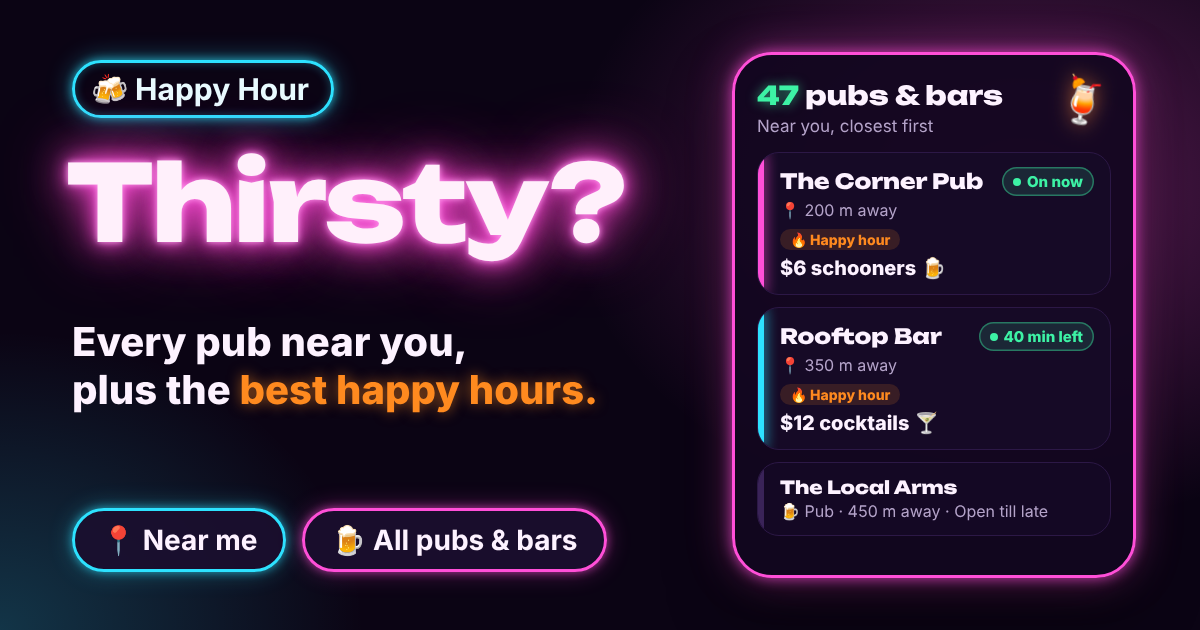
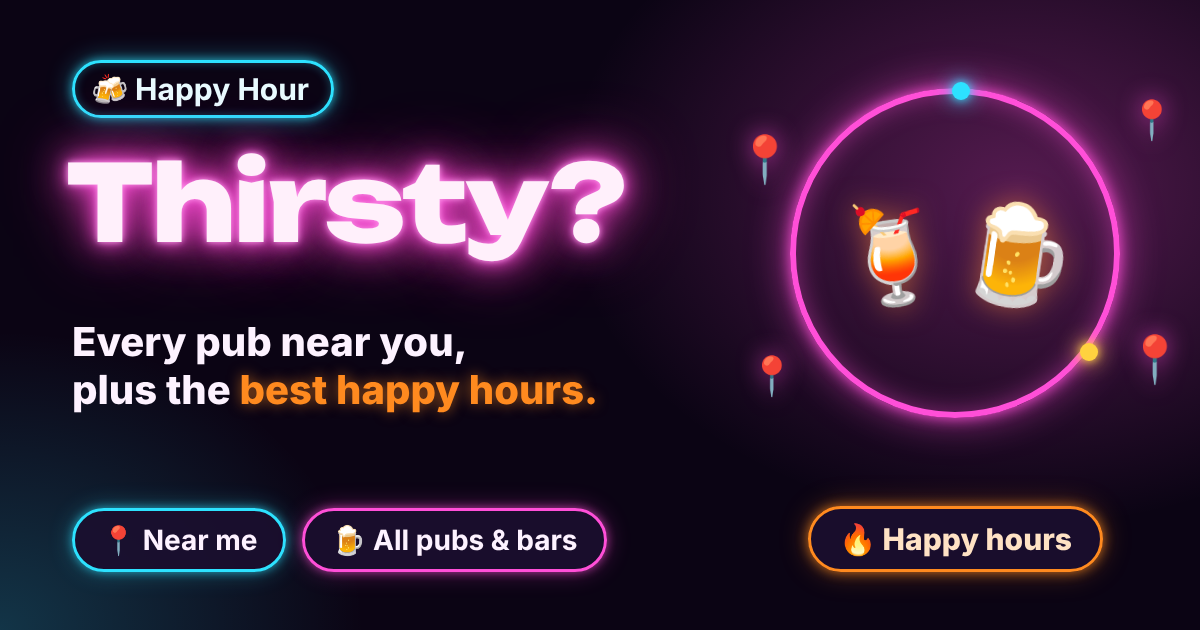
Preview picture: illustration instead of a mock pub list
The made-up pub list on the right looked like live data from wherever the
link was shared. It's now a neon drinks circle with map pins and a
"Happy hours" badge. Link bumped to ?v=5.

Claude-Session: https://claude.ai/code/session_018SdQR1HbSDNrbBQNXL9eDP

Changed region(s): [[0.5858, 0.0603, 0.9867, 0.9349]]

diff --git a/index.html b/index.html
@@ -19,11 +19,11 @@
 <meta property="og:url" content="https://sanj2888.github.io/Happy-Hour/">
 <meta property="og:title" content="Happy Hour 🍹 Every pub near you">
 <meta property="og:description" content="Every pub near you, plus the best happy hours in Sydney and Melbourne.">
-<meta property="og:image" content="https://sanj2888.github.io/Happy-Hour/thumbnail.png?v=4">
+<meta property="og:image" content="https://sanj2888.github.io/Happy-Hour/thumbnail.png?v=5">
 <meta property="og:image:width" content="1200">
 <meta property="og:image:height" content="630">
 <meta name="twitter:card" content="summary_large_image">
-<meta name="twitter:image" content="https://sanj2888.github.io/Happy-Hour/thumbnail.png?v=4">
+<meta name="twitter:image" content="https://sanj2888.github.io/Happy-Hour/thumbnail.png?v=5">
 
 <link rel="preconnect" href="https://fonts.googleapis.com">
 <link rel="preconnect" href="https://fonts.gstatic.com" crossorigin>
